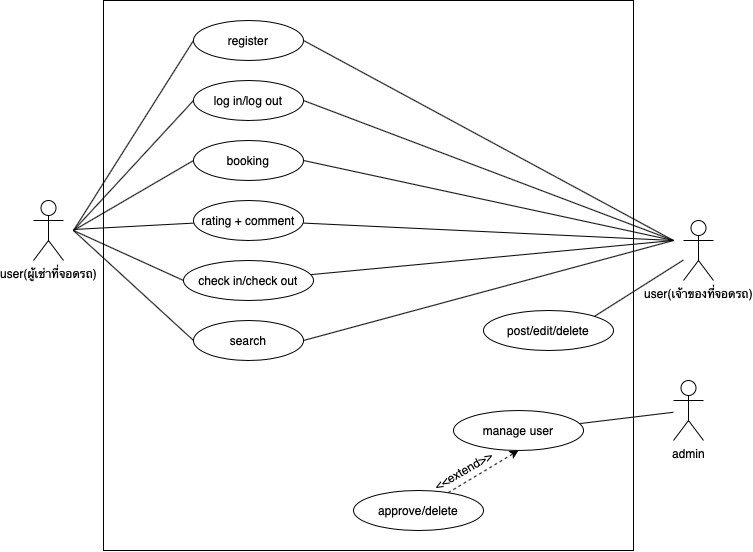
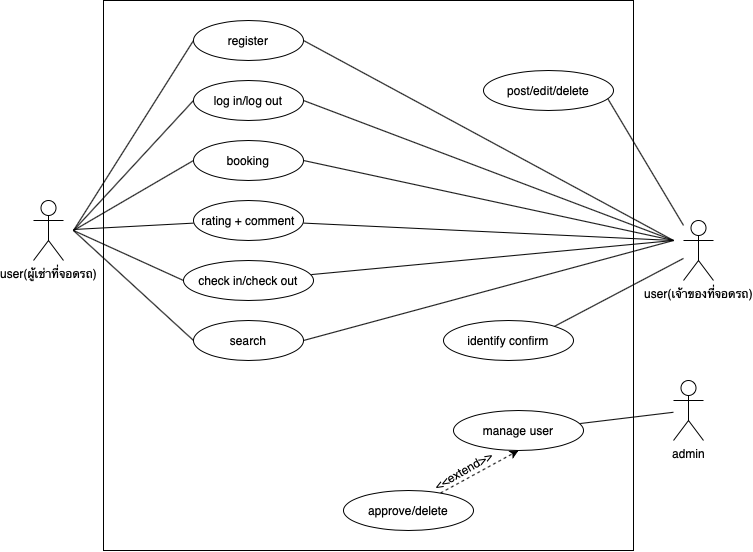
update README.md , change usecase

diff --git a/System_doc.md b/System_doc.md
@@ -93,6 +93,7 @@ Admin
 | Edit                   | &#10003; |          |
 | Delete                 | &#10003; |          |
 | Upload picture         | &#10003; |          |
+| Post id card           | &#10003; |          |
 | Booking                | &#10003; |          |
 | Cancel booking         | &#10003; |          |
 | Check in               | &#10003; |          |
@@ -293,8 +294,7 @@ Test Case #1
 - `Test procedure :` เปลี่ยนแปลงข้อมูลทุกขั้นตอนและกดประกาศอีกครั้ง
 - `Expected results :` ข้อมูลมีการเปลี่ยนแปลงตามที่แก้ไขทันที
 ---
-`Module (filename) : deletePost` <br>
-`Function (method) : deletePost` <br>
+#### `Module (filename) : deletePost` `Function (method) : deletePost` 
 
 Test Case #1
 - `Objective :` เพื่อทดสอบว่าสามารถลบ Post ที่จอดรถได้
@@ -310,8 +310,7 @@ Test Case #1
 - `Test procedure :` กด Booking ที่จอดรถและกรอกข้อมูลให้ครบ
 - `Expected results :` สามารถ Booking ที่จอดรถได้
 ---
-`Module (filename) : cancel booking` <br>
-`Function (method) : cancel booking` <br>
+#### `Module (filename) : cancel booking` `Function (method) : cancel booking` <br>
 
 Test Case #1
 - `Objective :` เพื่อทดสอบว่าการ booking สามารถยกเลิกภายหลังได้

diff --git a/README.md b/README.md
@@ -1,6 +1,11 @@
 # PAKU
-## web site
+## Website
 > Our web site : [PAKU](https://paku-cef3a.web.app/)
+
+## Puku System Document
+> Requirements document : [a](/System_doc.md#Requirements-document) <br>
+> Software architecture document : [b](System_doc.md#Software-architecture-document)
+> Quality assurance documentation : [c](System_doc.md#quality-assurance-documentation)
 
 <!---
 ## 1. Run Paku server
